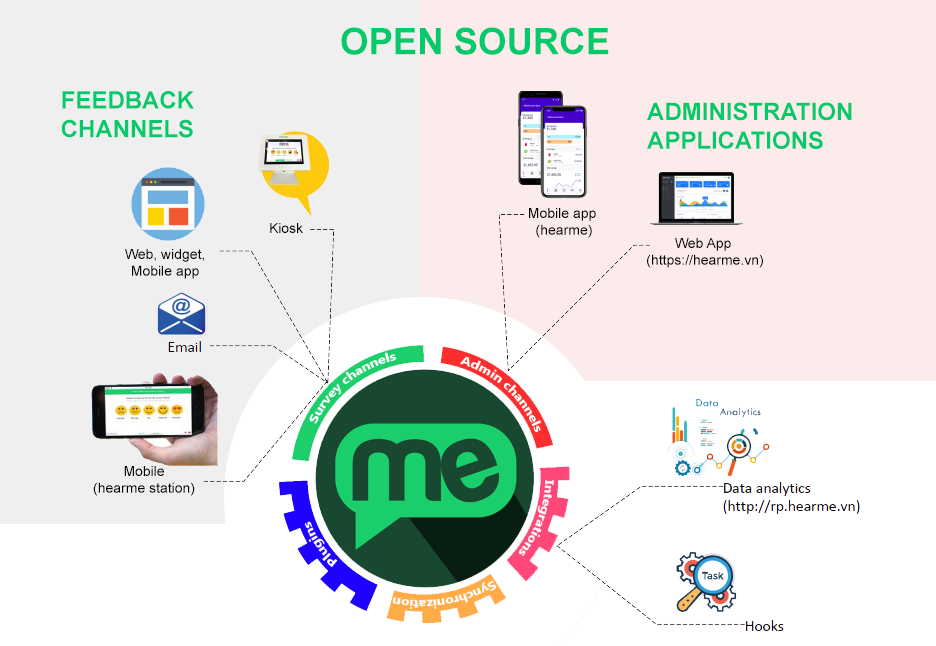
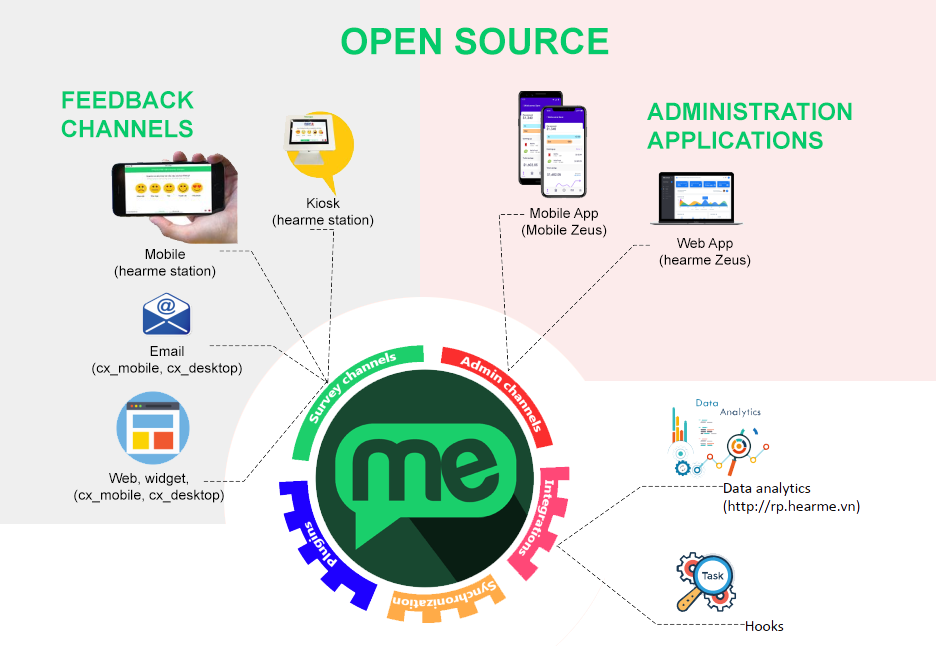
Update project information

Changed region(s): [[0.0929, 0.1548, 0.4028, 0.774], [0.6816, 0.3715, 0.8056, 0.4334], [0.5577, 0.3096, 0.6506, 0.3715]]

diff --git a/README.md b/README.md
@@ -1,5 +1,5 @@
 
-# mobile Zeus
+# mobile Zeus: Open-source Admin mobile app for CXM platform
 [![mobile Zeus](docs/imgs/feature.png)](https://hearme.vn)
 
 ## Description
@@ -13,9 +13,36 @@ The **mobile Zeus** shares the same powerful features as its counterpart, [**hea
 
 With these hearme open-source modules, you can swiftly assemble a complete CXM solution in just a few minutes. Experience the unparalleled flexibility and speed of customization. Join us in distributing innovative solutions to your local market with [hearme](https://hearme.vn).
 
+## Use cases
+
+**1. Unified Customer Feedback Collection Across Channels**
+
+- Scenario: You want to collect customer feedback seamlessly across various communication channels.
+- Enhancement: Our open-source CXM platform empowers you to implement custom logic for intercept processing, tailor the feedback collection process to your specific needs.
+
+**2. Custom Application Development for Feedback Collection**
+
+- Scenario: You have unique requirements and wish to develop your own applications for customer feedback collection.
+- Enhancement: The flexibility of our open-source CXM platform extends to empowering you to build your own applications for customer feedback collection. Leverage our modular and customizable framework to create apps tailored to your brand's specific requirements.
+
+**3. Becoming a CXM Provider with Your Trademark**
+
+- Scenario: You aspire to establish yourself as a CXM (Customer Experience Management) provider with a distinctive brand.
+
+- Enhancement: Transform your vision into reality by adopting our open-source modules. Incorporate them into your CXM platform and customize them with your own trademark. This empowers you to deliver a unique and branded CXM experience to your clients.
+
+- Benefits: By utilizing our open-source modules, you not only expedite the development process but also gain the flexibility to shape the platform according to your branding strategy. This positions you as a dynamic CXM provider with a unique identity in the market.
+
 ## hearme architechture
 ![hearme architectur](docs/imgs/hearme_components.png)
 
+## Related open-source modules
+
+- [hearme Zeus](https://github.com/hearme-vn/hearme-Zeus)
+- [mobile Zeus](https://github.com/hearme-vn/mobile-Zeus)
+- [hearme station](https://github.com/hearme-vn/hearme_station)
+- [cx mobile](https://github.com/hearme-vn/cx_mobile) 
+- and [cx desktop](https://github.com/hearme-vn/cx_desktop)
 
 ## Demonstration:
 - Manage CX system with your mobile Zeus: https://www.youtube.com/watch?v=e7KJPQUzvDc
@@ -143,12 +170,29 @@ npx cap open ios
 npx cap open android
 ```
 
-To modify configuration for building production, open file: angular.json then change values in 
+To modify configuration for dev, testing, building production, open file: src/environments/*.ts then change values 
 ```
-"configurations": {
-    "production": {
-    }
-}
+export const environment = {
+  production: true,
+
+.....
+
+  fbClientID: 	"xxxxxxx",
+  customer_wait_fb: 120,
+
+  /** For Firebase Notification */
+  firebase: {
+    apiKey: "xxxxxxxxxxx",
+    authDomain: "hearme-xxxxxxx.firebaseapp.com",
+    databaseURL: "https://hearme-xxxxxx.firebaseio.com",
+    projectId: "hearme-xxxxxxx",
+    storageBucket: "hearme-xxxxxxx.appspot.com",
+    messagingSenderId: "68942843xxxx0096",
+    appId: "xxxxxxx",
+    vapidKey: "xxxxxxxxxxxxxxxxxxx"
+  }
+};
+
 ```
 
 ## Setting for Android:
